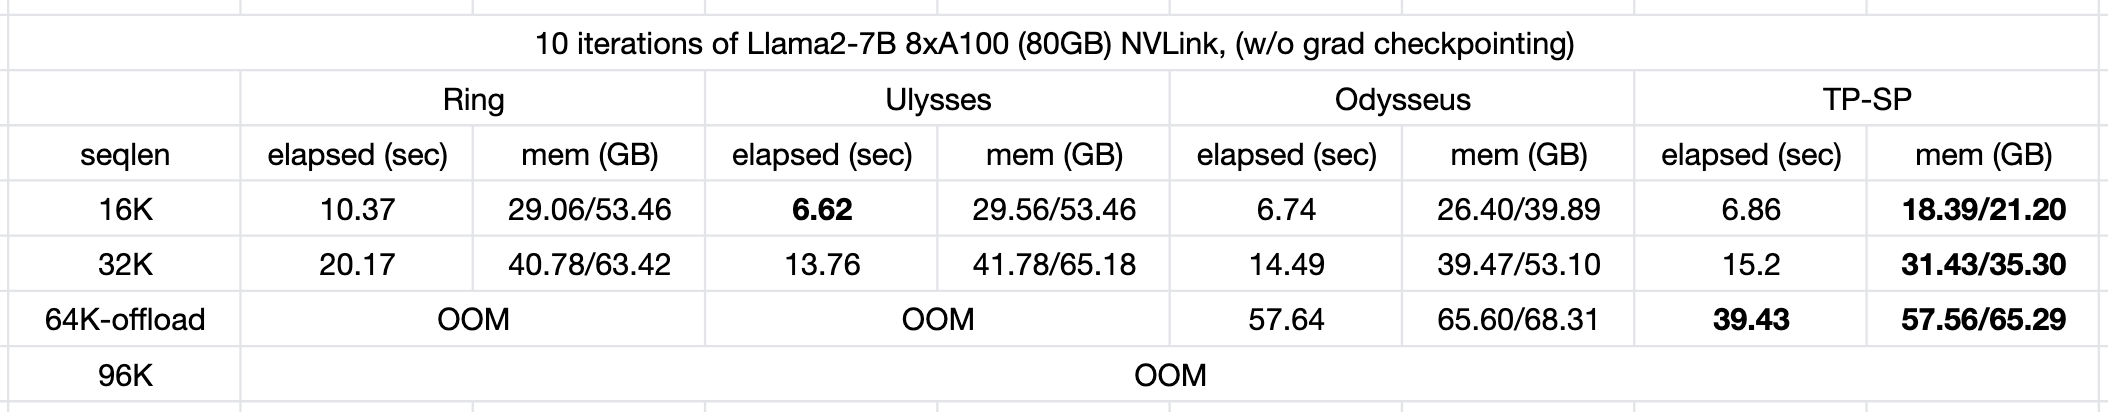
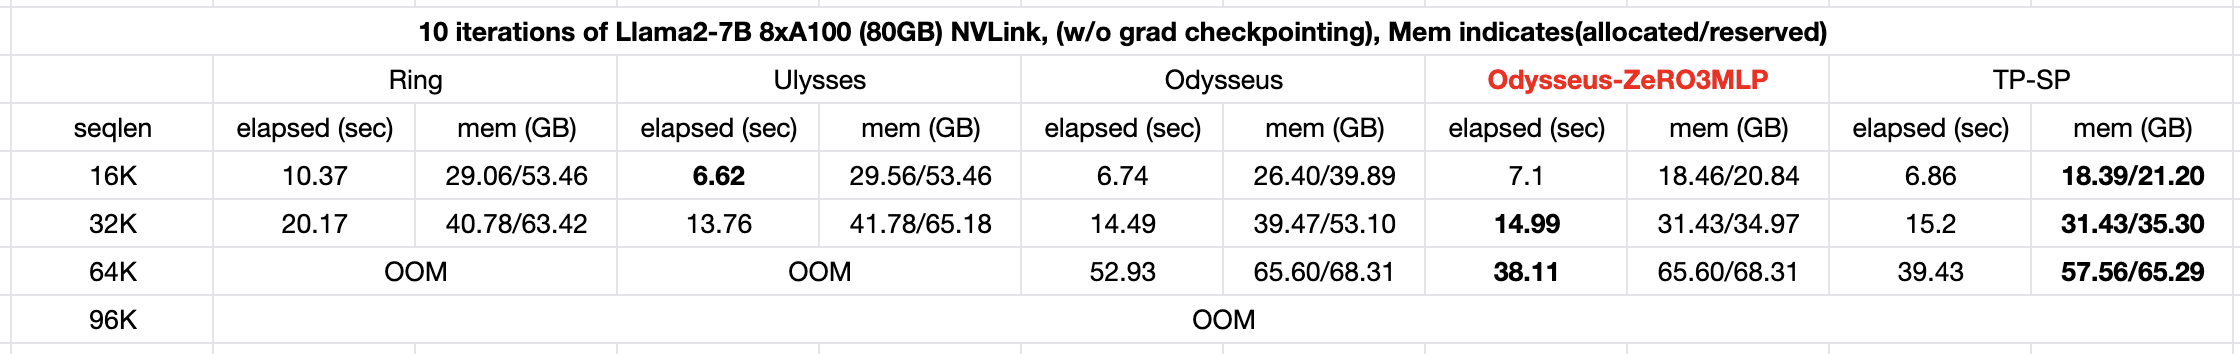
update run.sh

diff --git a/train.py b/train.py
@@ -63,8 +63,7 @@ def main(args):
     dev = torch.device(f"cuda:{local_rank}")
     _set_global_memory_buffer(dev)
 
-    use_cfg = False
-    if use_cfg:
+    if args.use_cfg_init_model:
         cfg = LlamaConfig()
         cfg.hidden_size = 4096
         cfg.intermediate_size = 11008
@@ -90,6 +89,8 @@ def main(args):
         print(f"total parameters {total_params/1e9:.2f}B")
 
     if args.parallel_mode == "odysseus":
+        if tp_rank == 0:
+            print(f"use odysseus zero3 {args.use_ody_zero3}")
         apply_odysseus_attn_patch_llama(model, use_zero3_linear=args.use_ody_zero3)
     elif args.parallel_mode == "ulysses":
         apply_ulysses_attn_monkey_patch_llama()
@@ -251,8 +252,9 @@ if __name__ == "__main__":
     args.add_argument("--cpu-offload", action="store_true", default=False)
     args.add_argument("--grad-checkpoint", action="store_true", default=False)
     args.add_argument("--use_zero2", action="store_true", default=False)
-    args.add_argument("--use_ody_zero3", action="store_true", default=False)
+    args.add_argument("--use_ody_zero3", action="store_true", default=True)
     args.add_argument("--use_profiler", action="store_true", default=False)
+    args.add_argument("--use_cfg_init_model", action="store_true", default=False)
     args.add_argument(
         "--parallel_mode",
         type=str,

diff --git a/utils/apply_seq_parallel.py b/utils/apply_seq_parallel.py
@@ -67,7 +67,7 @@ def prepare_odysseus_attn_inputs(
         local_target_ids = None
     return {
         "local_input_ids": local_input_ids,
-        "local_position_ids": position_ids,
+        "local_position_ids": position_ids.to(device),
         "local_target_ids": local_target_ids,
     }
 

diff --git a/README.md b/README.md
@@ -25,18 +25,22 @@ When the sequence length $L$ exceeds the intermediate hidden size $i$ ($L$ > i),
 |-----------------|------------|--------------|----------|--------------------------|------------|------------|
 | TP              | 2AllReduce | 4O(Ld)       | 0        | 0                        | full       | 1/N        |
 | TP-SP           | 6RS+4AG    | 4O(Ld)       | 0        | 0                        | 1/N        | 1/N        |
-| Ulysses+ZeRO3   | 4All2All   | 4O(Ld)       | AllReduce| 4O($d^2$)+2O(di)           | 1/N        | 1/N      |
-| Ring+ZeRO3      | P2P        | 2O(Ld)       | AllReduce| 4O($d^2$)+2O(di)           | 1/N        | 1/N      |
-| Odysseus+ZeRO3  | 3RS+2AG    | 2O(Ld)       | AllReduce (MLP) | 2O(di) | 1/N        | 1/N        |
+| Ulysses+ZeRO3   | 4All2All   | 4O(Ld)       | RS+2AG| 4O($d^2$)+3O(di)           | 1/N        | 1/N      |
+| Ring+ZeRO3      | P2P        | 2O(Ld)       | RS+2AG| 4O($d^2$)+3O(di)           | 1/N        | 1/N      |
+| Odysseus+ZeRO3  | 3RS+2AG    | 2O(Ld)       | RS+2AG (MLP) | 3O(di) | 1/N        | 1/N        |
 
 
 We conducted a benchmark of the four methods on 8xA100 GPUs, with a global batch size of 1 and without applying gradient checkpointing or offload. The elapsed time and memory usage are presented below. **The results differ from the analysis presented above.**
 
-1. TP-SP demonstrates the highest memory efficiency. Despite the theoretical equivalence in memory consumption between the four methods, we suspect that FSDP's memory efficiency is inferior to manually partitioning the weights of Linear layers.
-2. Odysseus and Ulysses usually exhibit slightly better performance, but the difference is marginal compared to TP-SP. Notably, TP-SP shows a performance advantage at 64K. We attribute this discrepancy to potential performance issues introduced by FSDP.
+1. Odysseus and TP-SP demonstrates the better memory efficiency than Ulysses and Ring. Despite the theoretical equivalence in memory consumption between the four methods, we suspect that FSDP's memory efficiency is inferior to manually partitioning the weights of Linear layers.
+2. Odysseus and TP-SP exhibit similar speed. However, the Odysseus MLP ZeRO section, where both AG (AllGather) and RS (ReduceScatter) operation are synchronized, still has room for applying async versions.
 
 <div align="center">
     <img src="./media/odysseus_perf.png" alt="Image description">
+</div>
+
+<div align="center">
+    <img src="./media/ody_perf_2.png" alt="Image description">
 </div>
 
 ### Usage
@@ -49,9 +53,9 @@ The repo is still work in progress. Contact me if you are interested in this pro
 
 1. Employing hybrid parallelism with Odysseus and Ring-Attention.
 2. Currently limited to batch size of 1; integration of hybrid and data parallelism for batch sizes greater than 1 is not supported.
-3. FSDP appears to conflict with gradient checkpointing.
+3. Applying the gradient checkpointing.
 4. Loading model checkpoints for Odysseus and TP-SP is not available; parameters are now initialized from scratch.
-5. MoE supports
+5. Supporting MoE architectures. 
 
 ### Acknowledgements
 
